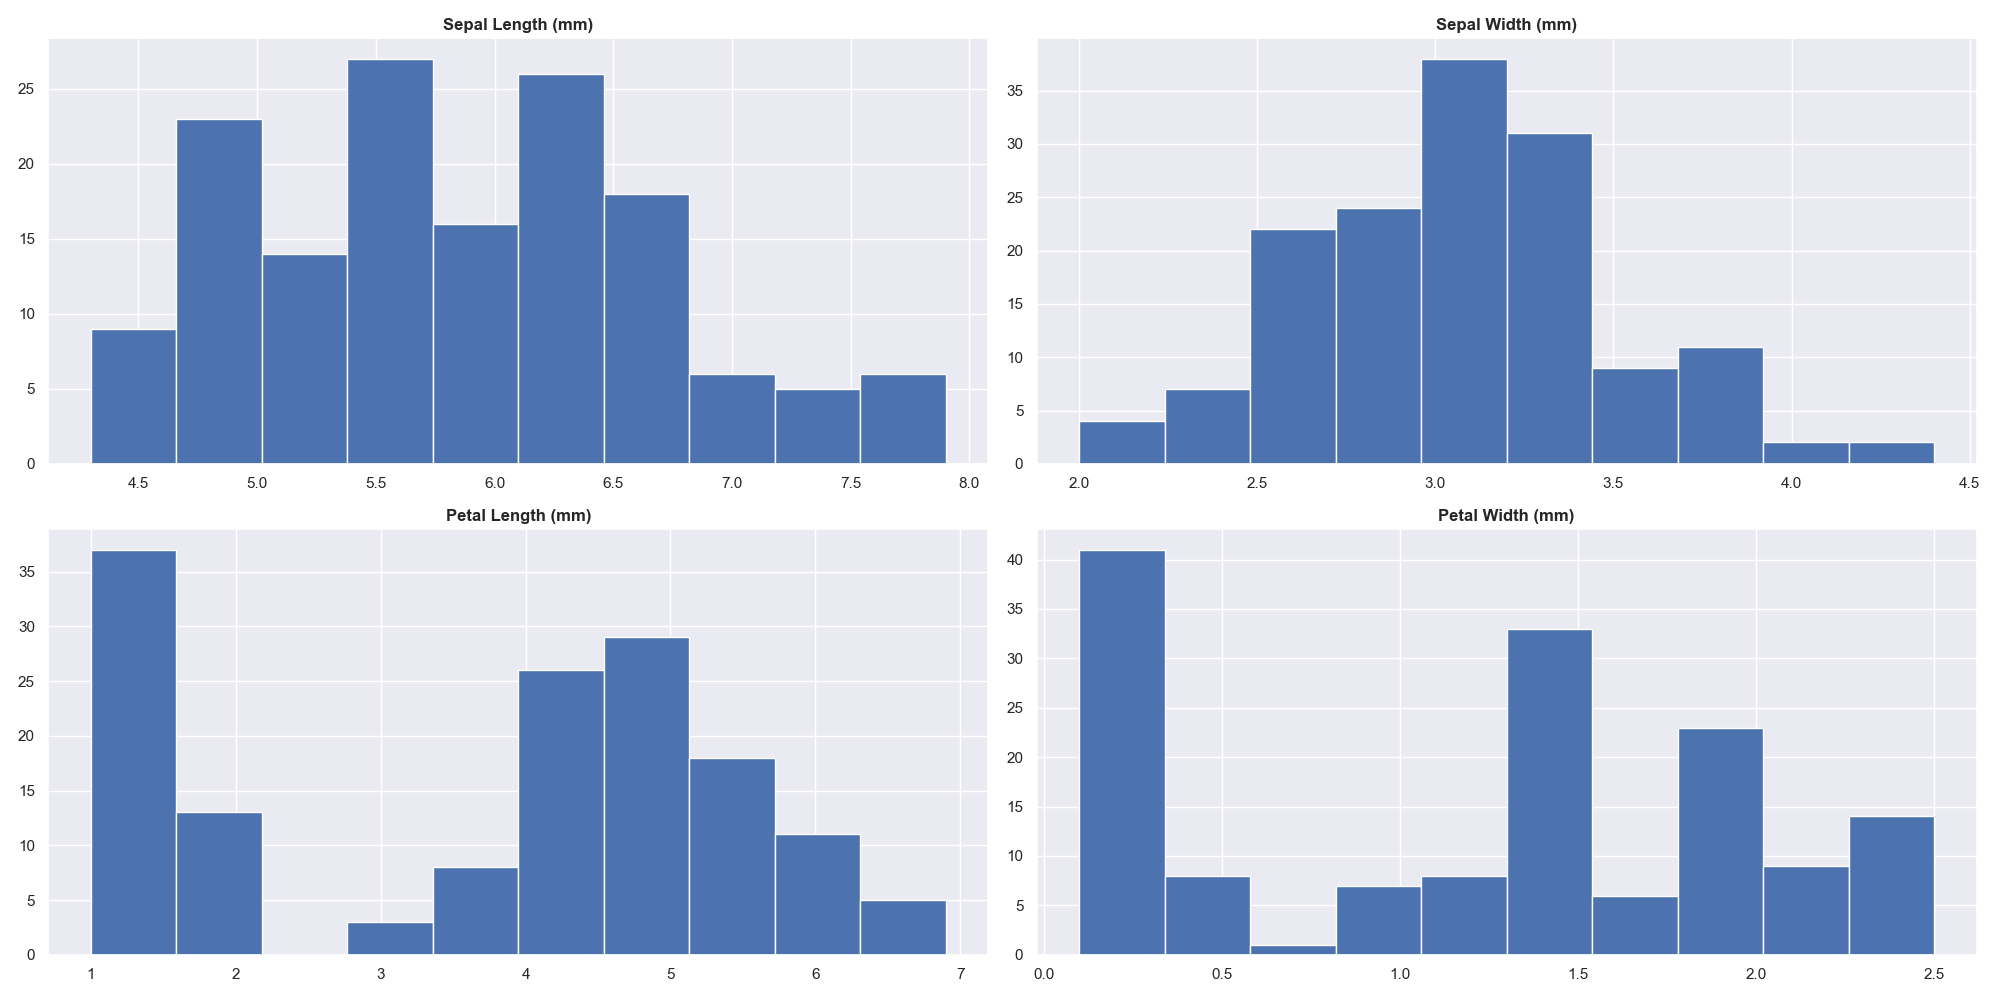
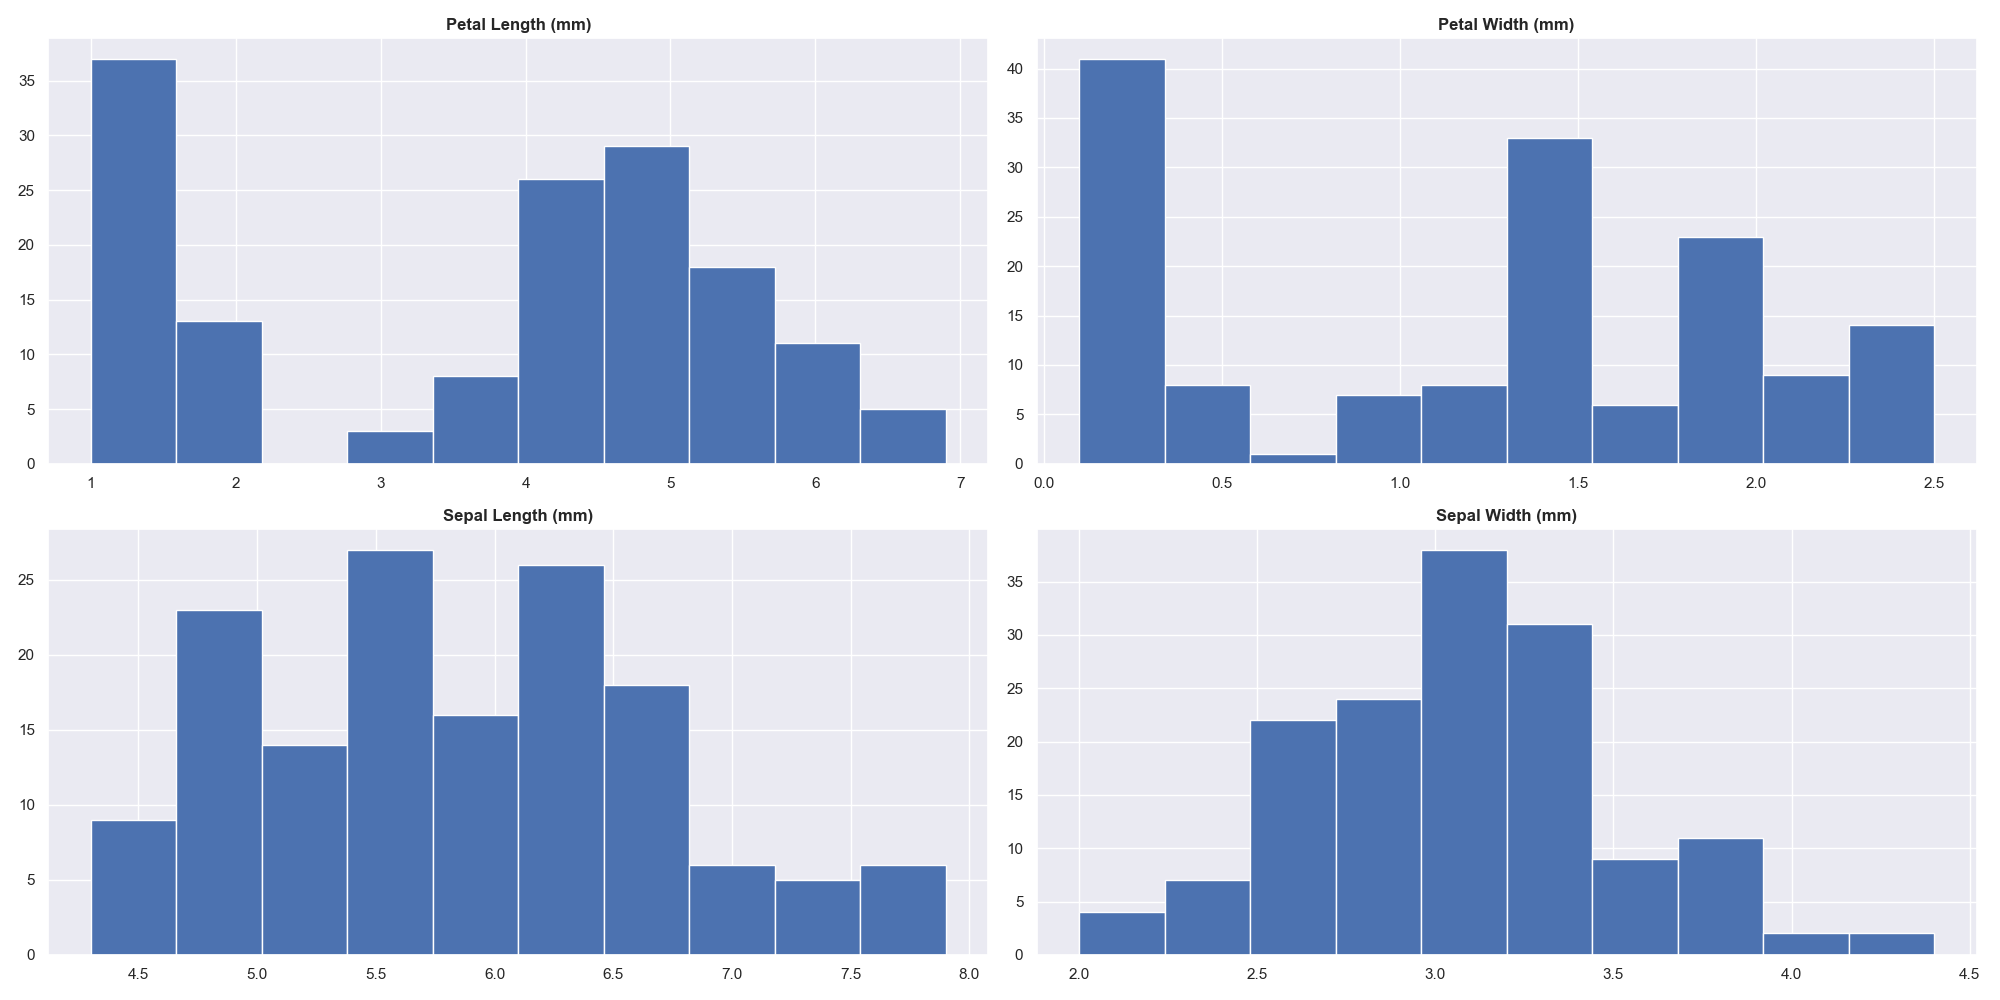
Tidying

diff --git a/analysis.py b/analysis.py
@@ -57,29 +57,29 @@ textfile.write("\n\nPerfect! Just what I wanted.\n\n")
 # Creating histograms for all four quantitative variables to see distribution
 # Create a figure and a set of subplots
 fig, axs = plt.subplots(2, 2, figsize=(20, 10))
-axs[0,0].hist(iris_df['sepal length']) # Plotting the histogram for Sepal Length
-axs[0,0].set_title('Sepal Length (mm)', fontsize=12, fontweight='bold')
-axs[0,1].hist(iris_df['sepal width']) # Plotting the histogram for Sepal Width
-axs[0,1].set_title('Sepal Width (mm)', fontsize=12, fontweight='bold')
-axs[1,0].hist(iris_df['petal length']) # Plotting the histogram for Petal Length
-axs[1,0].set_title('Petal Length (mm)', fontsize=12, fontweight='bold')
-axs[1,1].hist(iris_df['petal width']) # Plotting the histogram for Petal Width
-axs[1,1].set_title('Petal Width (mm)', fontsize=12, fontweight='bold')
+axs[0,0].hist(iris_df['petal length']) # Plotting the histogram for Petal Length
+axs[0,0].set_title('Petal Length (mm)', fontsize=12, fontweight='bold')
+axs[0,1].hist(iris_df['petal width']) # Plotting the histogram for Petal Width
+axs[0,1].set_title('Petal Width (mm)', fontsize=12, fontweight='bold')
+axs[1,0].hist(iris_df['sepal length']) # Plotting the histogram for Sepal Length
+axs[1,0].set_title('Sepal Length (mm)', fontsize=12, fontweight='bold')
+axs[1,1].hist(iris_df['sepal width']) # Plotting the histogram for Sepal Width
+axs[1,1].set_title('Sepal Width (mm)', fontsize=12, fontweight='bold')
 plt.tight_layout()
 plt.savefig("Iris - distribution of quantitative variables")
 
-# Creating scatter plot for Sepal Length v Width, using Class as hue
-plt.clf()
-plt.figure(figsize=(10,10))
-sns.scatterplot(x='sepal length', y='sepal width', hue='class', data=iris_df)
-plt.title("Sepal Length v Sepal Width")
-plt.savefig("Iris - scatterplot Sepal Length v Sepal Width")
-
 # Creating scatter plot for Petal Length v Width, using Class as hue
 plt.clf()
+plt.figure(figsize=(10,10))
 sns.scatterplot(x='petal length', y='petal width', hue='class', data=iris_df)
 plt.title("Petal Length v Petal Width")
 plt.savefig("Iris - scatterplot Petal Length v Petal Width")
+
+# Creating scatter plot for Sepal Length v Width, using Class as hue
+plt.clf()
+sns.scatterplot(x='sepal length', y='sepal width', hue='class', data=iris_df)
+plt.title("Sepal Length v Sepal Width")
+plt.savefig("Iris - scatterplot Sepal Length v Sepal Width")
 
 # Creating Seaborn pairplot to look at scatter plots across all variables with Class as hue
 sns.pairplot(iris_df, hue="class")
@@ -94,20 +94,20 @@ virginica_df = iris_df[iris_df['class'] == 'Virginica']
 # Will look at key data points for each class
 textfile.write("Let's look at the key data points for each class of flower. Min will show the minimum value, Max the maximum, Mean the average value, and Median will show us the middle value.\n\n")
 textfile.write("\tSetosa:\t\t\tMin\t\tMax\t\tMean\tMedian\n"
-               f"\tSepal Length -\t{(setosa_df['sepal length'].min()):.1f}\t\t{(setosa_df['sepal length'].max()):.1f}\t\t{(setosa_df['sepal length'].mean()):.1f}\t\t{(setosa_df['sepal length'].median()):.1f}\n"
-               f"\tSepal Width  -\t{(setosa_df['sepal width'].min()):.1f}\t\t{(setosa_df['sepal width'].max()):.1f}\t\t{(setosa_df['sepal width'].mean()):.1f}\t\t{(setosa_df['sepal width'].median()):.1f}\n"
                f"\tPetal Length -\t{(setosa_df['petal length'].min()):.1f}\t\t{(setosa_df['petal length'].max()):.1f}\t\t{(setosa_df['petal length'].mean()):.1f}\t\t{(setosa_df['petal length'].median()):.1f}\n"
-               f"\tPetal Width  -\t{(setosa_df['petal width'].min()):.1f}\t\t{(setosa_df['petal width'].max()):.1f}\t\t{(setosa_df['petal width'].mean()):.1f}\t\t{(setosa_df['petal width'].median()):.1f}\n\n"
+               f"\tPetal Width  -\t{(setosa_df['petal width'].min()):.1f}\t\t{(setosa_df['petal width'].max()):.1f}\t\t{(setosa_df['petal width'].mean()):.1f}\t\t{(setosa_df['petal width'].median()):.1f}\n"
+               f"\tSepal Length -\t{(setosa_df['sepal length'].min()):.1f}\t\t{(setosa_df['sepal length'].max()):.1f}\t\t{(setosa_df['sepal length'].mean()):.1f}\t\t{(setosa_df['sepal length'].median()):.1f}\n"
+               f"\tSepal Width  -\t{(setosa_df['sepal width'].min()):.1f}\t\t{(setosa_df['sepal width'].max()):.1f}\t\t{(setosa_df['sepal width'].mean()):.1f}\t\t{(setosa_df['sepal width'].median()):.1f}\n\n"
                "\tVersicolor:\n"
-               f"\tSepal Length -\t{(versicolor_df['sepal length'].min()):.1f}\t\t{(versicolor_df['sepal length'].max()):.1f}\t\t{(versicolor_df['sepal length'].mean()):.1f}\t\t{(versicolor_df['sepal length'].median()):.1f}\n"
-               f"\tSepal Width  -\t{(versicolor_df['sepal width'].min()):.1f}\t\t{(versicolor_df['sepal width'].max()):.1f}\t\t{(versicolor_df['sepal width'].mean()):.1f}\t\t{(versicolor_df['sepal width'].median()):.1f}\n"
                f"\tPetal Length -\t{(versicolor_df['petal length'].min()):.1f}\t\t{(versicolor_df['petal length'].max()):.1f}\t\t{(versicolor_df['petal length'].mean()):.1f}\t\t{(versicolor_df['petal length'].median()):.1f}\n"
-               f"\tPetal Width  -\t{(versicolor_df['petal width'].min()):.1f}\t\t{(versicolor_df['petal width'].max()):.1f}\t\t{(versicolor_df['petal width'].mean()):.1f}\t\t{(versicolor_df['petal width'].median()):.1f}\n\n"
+               f"\tPetal Width  -\t{(versicolor_df['petal width'].min()):.1f}\t\t{(versicolor_df['petal width'].max()):.1f}\t\t{(versicolor_df['petal width'].mean()):.1f}\t\t{(versicolor_df['petal width'].median()):.1f}\n"
+               f"\tSepal Length -\t{(versicolor_df['sepal length'].min()):.1f}\t\t{(versicolor_df['sepal length'].max()):.1f}\t\t{(versicolor_df['sepal length'].mean()):.1f}\t\t{(versicolor_df['sepal length'].median()):.1f}\n"
+               f"\tSepal Width  -\t{(versicolor_df['sepal width'].min()):.1f}\t\t{(versicolor_df['sepal width'].max()):.1f}\t\t{(versicolor_df['sepal width'].mean()):.1f}\t\t{(versicolor_df['sepal width'].median()):.1f}\n\n"
                "\tVirginica:\n"
-               f"\tSepal Length -\t{(virginica_df['sepal length'].min()):.1f}\t\t{(virginica_df['sepal length'].max()):.1f}\t\t{(virginica_df['sepal length'].mean()):.1f}\t\t{(virginica_df['sepal length'].median()):.1f}\n"
-               f"\tSepal Width  -\t{(virginica_df['sepal width'].min()):.1f}\t\t{(virginica_df['sepal width'].max()):.1f}\t\t{(virginica_df['sepal width'].mean()):.1f}\t\t{(virginica_df['sepal width'].median()):.1f}\n"
                f"\tPetal Length -\t{(virginica_df['petal length'].min()):.1f}\t\t{(virginica_df['petal length'].max()):.1f}\t\t{(virginica_df['petal length'].mean()):.1f}\t\t{(virginica_df['petal length'].median()):.1f}\n"
-               f"\tPetal Width  -\t{(virginica_df['petal width'].min()):.1f}\t\t{(virginica_df['petal width'].max()):.1f}\t\t{(virginica_df['petal width'].mean()):.1f}\t\t{(virginica_df['petal width'].median()):.1f}\n\n"
+               f"\tPetal Width  -\t{(virginica_df['petal width'].min()):.1f}\t\t{(virginica_df['petal width'].max()):.1f}\t\t{(virginica_df['petal width'].mean()):.1f}\t\t{(virginica_df['petal width'].median()):.1f}\n"
+               f"\tSepal Length -\t{(virginica_df['sepal length'].min()):.1f}\t\t{(virginica_df['sepal length'].max()):.1f}\t\t{(virginica_df['sepal length'].mean()):.1f}\t\t{(virginica_df['sepal length'].median()):.1f}\n"
+               f"\tSepal Width  -\t{(virginica_df['sepal width'].min()):.1f}\t\t{(virginica_df['sepal width'].max()):.1f}\t\t{(virginica_df['sepal width'].mean()):.1f}\t\t{(virginica_df['sepal width'].median()):.1f}\n\n"
                )
 
 # Create heatmap of correlations
@@ -119,25 +119,25 @@ sns.heatmap(corr, annot=True, ax=ax, cmap = 'coolwarm')
 plt.savefig("Iris - correlation heatmap")
 
 # Write correlation values to textfile
-sepal_corr = iris_df['sepal length'].corr(iris_df['sepal width'])
 petal_corr = iris_df['petal length'].corr(iris_df['petal width'])
-setsepal_corr = setosa_df['sepal length'].corr(setosa_df['sepal width'])
+sepal_corr = iris_df['sepal length'].corr(iris_df['sepal width'])
 setpetal_corr = setosa_df['petal length'].corr(setosa_df['petal width'])
-versepal_corr = versicolor_df['sepal length'].corr(versicolor_df['sepal width'])
+setsepal_corr = setosa_df['sepal length'].corr(setosa_df['sepal width'])
 verpetal_corr = versicolor_df['petal length'].corr(versicolor_df['petal width'])
-virsepal_corr = virginica_df['sepal length'].corr(virginica_df['sepal width'])
+versepal_corr = versicolor_df['sepal length'].corr(versicolor_df['sepal width'])
 virpetal_corr = virginica_df['petal length'].corr(virginica_df['petal width'])
+virsepal_corr = virginica_df['sepal length'].corr(virginica_df['sepal width'])
 textfile.write("I have generated the correlation coefficients in my code, so I will also note the values here in my overview text:\n\n")
 textfile.write("\tOverall:\n"
-               f"\tSepal Length v Width correlation:\t{(sepal_corr):>5.2f}\n"
-               f"\tPetal Length v Width correlation:\t{(petal_corr):>5.2f}\n\n"
+               f"\tPetal Length v Width correlation:\t{(petal_corr):>5.2f}\n"
+               f"\tSepal Length v Width correlation:\t{(sepal_corr):>5.2f}\n\n"
                "\tSetosa:\n"
-               f"\tSepal Length v Width correlation:\t{(setsepal_corr):>5.2f}\n"
-               f"\tPetal Length v Width correlation:\t{(setpetal_corr):>5.2f}\n\n"
+               f"\tPetal Length v Width correlation:\t{(setpetal_corr):>5.2f}\n"
+               f"\tSepal Length v Width correlation:\t{(setsepal_corr):>5.2f}\n\n"
                "\tVersicolor:\n"
-               f"\tSepal Length v Width correlation:\t{(versepal_corr):>5.2f}\n"
-               f"\tPetal Length v Width correlation:\t{(verpetal_corr):>5.2f}\n\n"
+               f"\tPetal Length v Width correlation:\t{(verpetal_corr):>5.2f}\n"
+               f"\tSepal Length v Width correlation:\t{(versepal_corr):>5.2f}\n\n"
                "\tVirginica:\n"
-               f"\tSepal Length v Width correlation:\t{(virsepal_corr):>5.2f}\n"
-               f"\tPetal Length v Width correlation:\t{(virpetal_corr):>5.2f}\n\n"
+               f"\tPetal Length v Width correlation:\t{(virpetal_corr):>5.2f}\n"
+               f"\tSepal Length v Width correlation:\t{(virsepal_corr):>5.2f}\n\n"
                )

diff --git a/README.md b/README.md
@@ -13,7 +13,12 @@ In 1936, British statistician (and mathematician, and biologist, and geneticist,
 With this data, Fisher developed a linear discriminant model to distinguish the species from each other. As a clean, complete, and relatively simple dataset, it is a useful sandbox for those of us taking our first steps into the world of Data Science.
 
 ## The Data
-The data is comprised of four centimeter measurements (petal and sepal, both length and width) stored as Float64, and a class variable, which is an object and indicates which species of flower the measurements were taken from. There are no NaN values.
+The data is comprised of four centimeter measurements (petal and sepal, both length and width) stored as Float64, and a class variable, which is an Object and indicates which species of flower the measurements were taken from. There are no NaN values.
+
+## Visualisations
+Below are some data visualisations that I generated in the course of my analysis.
+
+![Histogram distributions of the quantitative variables in the Iris dataset](Iris - distribution of quantitative variables.png)
 
 ## Modules
 I made use of the following modules as part of this project.
